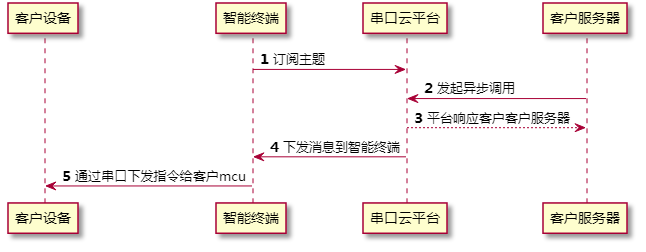
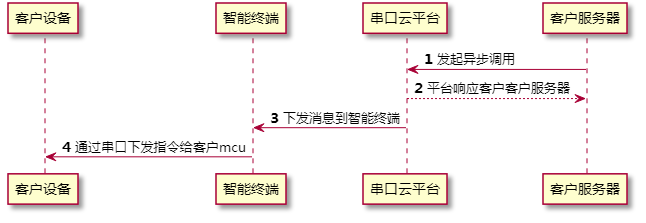
GitBook: [master] one page and one asset modified

diff --git a/uartcloud/clouddev/yuan-cheng-tiao-yong.md b/uartcloud/clouddev/yuan-cheng-tiao-yong.md
@@ -6,13 +6,16 @@
 
 ![](../../.gitbook/assets/image%20%28123%29.png)
 
+
+
 {% api-method method="post" host="" path="/iot/v1/application/device/rpc/async" %}
 {% api-method-summary %}
 异步调用api 
 {% endapi-method-summary %}
 
 {% api-method-description %}
-异步调用是指第三方服务通过异步调用接口，给设备下发命令，接口响应的结果并不是设备返回的结果，而设备上报的结果需要通过另外的方式（如数据推送、消息推送、数据调用）获得设备被调用之后的结果。
+异步调用是指第三方服务通过异步调用接口，给设备下发命令，接口响应的结果并不是设备返回的结果，而设备上报的结果需要通过另外的方式（如数据推送、消息推送、数据调用）获得设备被调用之后的结果。  
+交互流程：
 {% endapi-method-description %}
 
 {% api-method-spec %}
